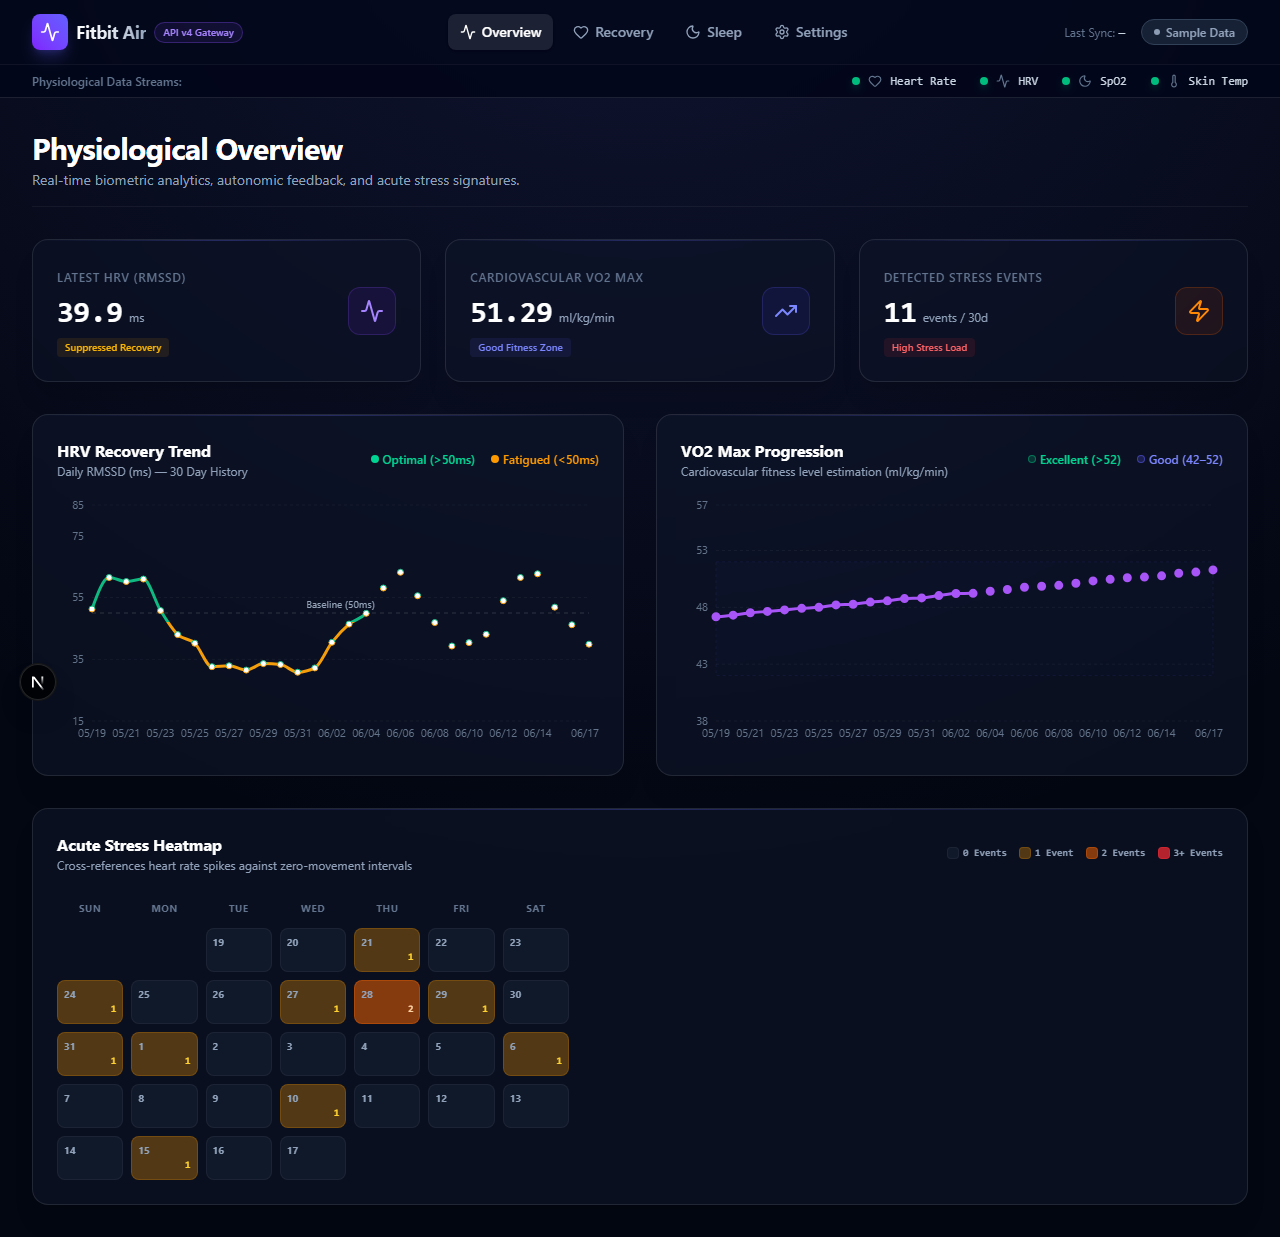
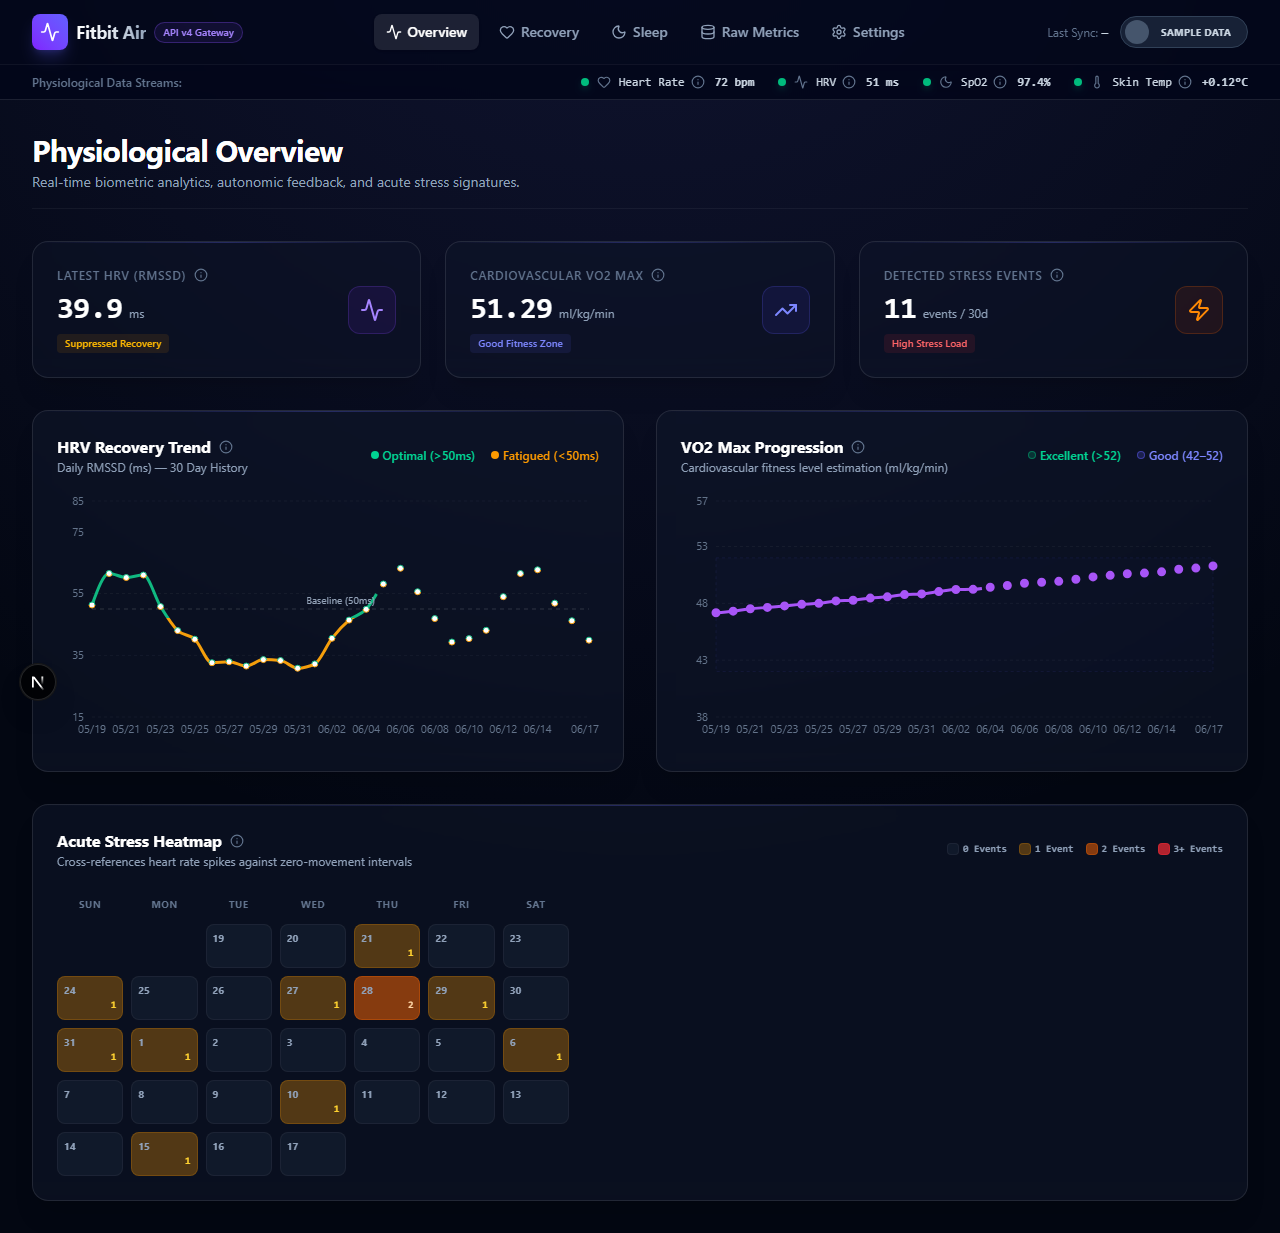
fixed ui bugs

diff --git a/health-dashboard/components/SettingsModal.tsx b/health-dashboard/components/SettingsModal.tsx
@@ -37,17 +37,37 @@ export function SettingsModal({ isOpen, onClose }: SettingsModalProps) {
     e.preventDefault();
     setLoading(true);
 
-    // Save to Zustand store settings configuration
-    updateSettings({
-      clientId,
-      clientSecret,
-      age,
-      maxHR,
-      restingHR,
-      targetSleepHours,
-    });
-
     try {
+      // 1. Send settings/credentials to the backend
+      const settingsRes = await fetch("/api/settings", {
+        method: "POST",
+        headers: {
+          "Content-Type": "application/json",
+        },
+        body: JSON.stringify({
+          clientId,
+          clientSecret,
+          age,
+          maxHR,
+          restingHR,
+          targetSleepHours,
+        }),
+      });
+
+      if (!settingsRes.ok) {
+        throw new Error("Failed to save settings to Python gateway.");
+      }
+
+      // Save to Zustand store settings configuration
+      updateSettings({
+        clientId,
+        clientSecret,
+        age,
+        maxHR,
+        restingHR,
+        targetSleepHours,
+      });
+
       console.log("Checking OAuth token status...");
       const statusRes = await fetch("/api/status");
       const statusData = await statusRes.json();
@@ -79,7 +99,7 @@ export function SettingsModal({ isOpen, onClose }: SettingsModalProps) {
     } catch (err: any) {
       console.error("Connection error:", err);
       alert(
-        "Could not connect to Google Health Gateway.\n\nPlease verify that the FastAPI backend is running on http://127.0.0.1:8000 and that you have completed the OAuth flow."
+        `Could not connect to Google Health Gateway.\n\nError: ${err.message}\n\nPlease verify that the FastAPI backend is running on http://127.0.0.1:8000 and that you have completed the OAuth flow.`
       );
       setDataMode("sample");
     } finally {

diff --git a/health-dashboard/app/api/settings/route.ts b/health-dashboard/app/api/settings/route.ts
@@ -1,0 +1,38 @@
+import { NextResponse } from "next/server";
+
+export async function POST(request: Request) {
+  try {
+    const body = await request.json();
+    
+    const res = await fetch("http://127.0.0.1:8000/api/settings", {
+      method: "POST",
+      headers: {
+        "Content-Type": "application/json",
+      },
+      body: JSON.stringify({
+        client_id: body.clientId,
+        client_secret: body.clientSecret,
+        age: body.age,
+        max_hr: body.maxHR,
+        resting_hr: body.restingHR,
+        target_sleep_hours: body.targetSleepHours,
+      }),
+    });
+
+    if (!res.ok) {
+      const errText = await res.text();
+      return NextResponse.json(
+        { error: "backend_error", message: errText },
+        { status: res.status }
+      );
+    }
+
+    const data = await res.json();
+    return NextResponse.json(data);
+  } catch (error: any) {
+    return NextResponse.json(
+      { error: "backend_unavailable", message: error.message },
+      { status: 503 }
+    );
+  }
+}

diff --git a/health-dashboard/components/MetricInfo.tsx b/health-dashboard/components/MetricInfo.tsx
@@ -192,6 +192,38 @@ export function MetricInfo({ metricKey, size = "sm" }: MetricInfoProps) {
     return () => document.removeEventListener("mousedown", handler);
   }, [open]);
 
+  // Elevate parent stacking context when tooltip is open to prevent clipping by other cards
+  useEffect(() => {
+    if (!ref.current) return;
+    
+    let parent = ref.current.parentElement;
+    while (parent) {
+      // Find the closest card container: either a .glow-card or a card-like div
+      if (
+        parent.classList.contains("glow-card") ||
+        parent.classList.contains("rounded-2xl") ||
+        (parent.tagName === "DIV" && (parent.className.includes("border") || parent.className.includes("bg-slate")))
+      ) {
+        if (open) {
+          parent.style.zIndex = "40";
+          parent.style.position = "relative";
+        } else {
+          parent.style.zIndex = "";
+          parent.style.position = "";
+        }
+        break;
+      }
+      parent = parent.parentElement;
+    }
+    
+    return () => {
+      if (parent) {
+        parent.style.zIndex = "";
+        parent.style.position = "";
+      }
+    };
+  }, [open]);
+
   if (!def) return null;
 
   const iconSize = size === "sm" ? "h-3.5 w-3.5" : "h-4 w-4";
@@ -209,7 +241,7 @@ export function MetricInfo({ metricKey, size = "sm" }: MetricInfoProps) {
 
       {open && (
         <div
-          className="absolute z-50 left-6 top-0 w-80 rounded-2xl border border-white/10 bg-slate-900/95 backdrop-blur-xl shadow-2xl shadow-black/60 p-5 text-sm"
+          className="absolute z-50 right-0 top-6 mt-1 w-80 rounded-2xl border border-white/10 bg-slate-900/95 backdrop-blur-xl shadow-2xl shadow-black/60 p-5 text-sm"
           style={{ minWidth: "300px" }}
           onClick={(e) => e.stopPropagation()}
         >

diff --git a/health-dashboard/app/globals.css b/health-dashboard/app/globals.css
@@ -17,7 +17,6 @@ body {
 /* Custom premium glow effects and animations */
 .glow-card {
   position: relative;
-  overflow: hidden;
 }
 
 .glow-card::before {

diff --git a/google-health-service/main.py b/google-health-service/main.py
@@ -10,6 +10,7 @@ CORS is configured to allow requests from http://localhost:3000 (Next.js dev ser
 Run with: uvicorn main:app --reload --port 8000
 """
 
+import json
 import logging
 import os
 from datetime import datetime, timezone
@@ -116,7 +117,89 @@ class SyncRequest(BaseModel):
         return v
 
 
+class SettingsRequest(BaseModel):
+    client_id: str
+    client_secret: str
+    age: int
+    max_hr: float
+    resting_hr: float
+    target_sleep_hours: float
+
+
 # ─── Routes ───────────────────────────────────────────────────────────────────
+
[email redacted]("/api/settings", summary="Update GCP credentials and user baselines")
+async def update_settings(body: SettingsRequest) -> JSONResponse:
+    # 1. Update credentials.json
+    try:
+        creds_data = {
+            "installed": {
+                "client_id": body.client_id,
+                "client_secret": body.client_secret,
+                "project_id": "fitbit-air-dashboard-499709",
+                "auth_uri": "https://accounts.google.com/o/oauth2/auth",
+                "token_uri": "https://oauth2.googleapis.com/token",
+                "auth_provider_x509_cert_url": "https://www.googleapis.com/oauth2/v1/certs",
+                "redirect_uris": ["http://localhost"]
+            }
+        }
+        from auth import CREDENTIALS_PATH, TOKEN_PATH
+        with open(CREDENTIALS_PATH, "w") as f:
+            json.dump(creds_data, f, indent=2)
+        logger.info("Updated credentials.json with new GCP client ID/secret.")
+    except Exception as e:
+        logger.error(f"Failed to update credentials.json: {e}")
+        raise HTTPException(status_code=500, detail=f"Failed to update credentials.json: {str(e)}")
+
+    # 2. Update .env file / environment variables
+    try:
+        env_lines = []
+        if os.path.exists(".env"):
+            with open(".env", "r") as f:
+                env_lines = f.readlines()
+        
+        def update_env_var(lines, key, val):
+            found = False
+            for i, line in enumerate(lines):
+                if line.strip().startswith(f"{key}="):
+                    lines[i] = f"{key}={val}\n"
+                    found = True
+                    break
+            if not found:
+                lines.append(f"{key}={val}\n")
+        
+        update_env_var(env_lines, "USER_MAX_HR", body.max_hr)
+        update_env_var(env_lines, "USER_RESTING_HR", body.resting_hr)
+        update_env_var(env_lines, "USER_TARGET_SLEEP_HOURS", body.target_sleep_hours)
+        
+        with open(".env", "w") as f:
+            f.writelines(env_lines)
+            
+        # Update current runtime variables
+        global USER_MAX_HR, USER_RESTING_HR, USER_TARGET_SLEEP_HOURS
+        USER_MAX_HR = body.max_hr
+        USER_RESTING_HR = body.resting_hr
+        USER_TARGET_SLEEP_HOURS = body.target_sleep_hours
+        
+        logger.info("Updated .env and runtime user physiological baselines.")
+    except Exception as e:
+        logger.error(f"Failed to update .env: {e}")
+        raise HTTPException(status_code=500, detail=f"Failed to update .env: {str(e)}")
+
+    # 3. Clear/validate token if client_id changed
+    try:
+        from auth import TOKEN_PATH
+        if os.path.exists(TOKEN_PATH):
+            with open(TOKEN_PATH, "r") as f:
+                token_data = json.load(f)
+            if token_data.get("client_id") != body.client_id:
+                os.remove(TOKEN_PATH)
+                logger.info("Client ID changed. Deleted old token.json.")
+    except Exception as e:
+        logger.warning(f"Failed to inspect/delete old token.json: {e}")
+
+    return JSONResponse(content={"status": "success", "message": "Settings updated successfully."})
+
 
 @app.get("/api/status", summary="OAuth token status and scope info")
 async def get_status() -> JSONResponse:

diff --git a/README.md b/README.md
@@ -81,7 +81,21 @@ Fitbit_Air_dashboard/
 
 ---
 
-### 2. Backend Setup
+### 2. One-Click Startup (Recommended for Windows)
+
+For an automated setup and startup experience, simply do the following:
+
+1. Place the downloaded `credentials.json` inside the **`google-health-service/`** directory.
+2. Double-click the **`start_dashboard.bat`** script at the root of the project workspace.
+   * This script will automatically create the Python virtual environment, install dependencies for both the backend and frontend, launch both servers, and open `http://localhost:3000` in your web browser.
+
+---
+
+### 3. Manual Developer Startup (Alternative)
+
+If you prefer to start the servers manually in separate terminal windows, follow these steps:
+
+#### Step A: Backend Setup
 
 ```bash
 cd google-health-service
@@ -112,7 +126,7 @@ INFO:     Application startup complete.
 
 ---
 
-### 3. Frontend Setup
+#### Step B: Frontend Setup
 
 Open a **second terminal**:
 